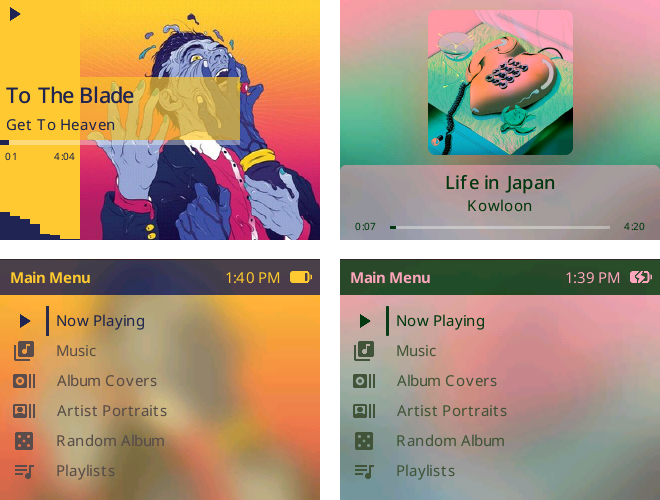
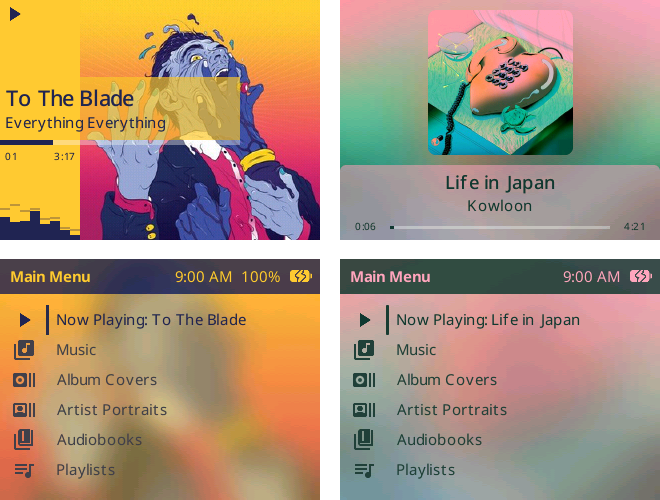
README: the bootloader, PC tools and artwork notes, and new screenshots
- Points to the optional PodBox bootloader release.
- First run moves below library setup and adds artcache_pb.exe beside
  database_pb.exe.
- Artwork may be progressive JPEG now; the borrowing caveat and the car
  artwork note are dropped.
- The feature-grid screenshots are retaken, with a new Settings one.

Claude-Session: https://claude.ai/code/session_01RvHmT58hzxfvQpvT89mNZ3

diff --git a/README.md b/README.md
@@ -117,18 +117,13 @@ the whole update.
 > [Rockbox installation guide](https://www.rockbox.org/manual.shtml) for your
 > model first. If you are already running Rockbox or RockPod, unzipping is all
 > you need.
-
-## First run
-
-When you first load PodBox it will be building your music and art database which will
-affect performance initially (particularly on the 5G).  You can check progress of the 
-background tasks by going to `System > Background Tasks`.
-
-The database can be built much faster from a Windows PC.  Once PodBox has started once, connect
-the iPod and run `database_pb.exe` from `.rockbox/tools/`.  It does what
-`Settings > Library > Maintenance > Update Database` does, keeping play counts, ratings and
-positions; `database_pb.exe --rebuild` does what `Rebuild Database` does.  When it finishes,
-eject the iPod; it restarts itself to load the new database.
+>
+> **Optional: the PodBox bootloader.** With it the player starts PodBox even
+> when the hold switch is on, and holding Menu as it starts gives you Apple's
+> firmware. Download `podbox-bootloader.zip` from the
+> [Bootloader release](https://github.com/anthonyfletcher/podbox/releases/tag/Bootloader),
+> unzip it on a Windows PC and follow its `README.txt`. It installs over the
+> Rockbox bootloader.
 
 # Setting up your music library
 
@@ -166,19 +161,15 @@ e.g. `Artist/folder.jpg`. Artist art only ever comes from image files. An artist
 no image of its own borrows one from the folder above it, so if your albums are grouped one
 level deeper, as in `Artist/Albums/Album One`, artist art can stay in `Artist/folder.jpg`; an
 image in the grouping folder (`Artist/Albums/folder.jpg`) takes precedence for the albums
-under it. The same borrowing means an image in a folder that holds your artists (e.g.
-`Music/folder.jpg` or a genre folder) becomes the picture of every artist without one, so
-keep them out of there. If that happens, delete the image and run
-`Settings > Library > Maintenance > Update Art Cache`.
+under it. 
 
 All artwork should be:
 
-- stored as a baseline / non-progressive JPEG file
+- stored as a JPEG file (baseline or progressive).
 - embedded as JPEG, if embedded at all. PNG art in tags is skipped, and the cache reads one
 track per album, so put the cover in every track.
 - stored at a "reasonable" resolution - the cache stores 300x300px copies, and anything much
-larger takes longer to process. A car is sent the cache's copy unless `Car Artwork` is set to
-send the original.
+larger takes longer to process.
 
 Artwork is processed quietly in the background while the database is idle, so browsing stays
 fast.  As such, it can take a while to see the art appear.  You can check the cache activity by
@@ -204,6 +195,22 @@ machine.
  each track and store the findings in an index. 
 - Turn on the playlist engine by going to `Settings > Library > Playlist Engine > Enabled`
 
+# First run
+
+When you first load PodBox it will be building your music and art database which will
+affect performance initially (particularly on the 5G).  You can check progress of the
+background tasks by going to `System > Background Tasks`.
+
+The database can be built much faster from a Windows PC.  Once PodBox has started once, connect
+the iPod and run `database_pb.exe` from `.rockbox/tools/`.  It does what
+`Settings > Library > Maintenance > Update Database` does, keeping play counts, ratings and
+positions; `database_pb.exe --rebuild` does what `Rebuild Database` does.  When it finishes,
+eject the iPod; it restarts itself to load the new database.
+
+The art cache can also be made on the PC: run `artcache_pb.exe` from `.rockbox/tools/`, after
+`database_pb.exe` if you have added music.  It does what `Update Art Cache` does, and
+`artcache_pb.exe --rebuild` what `Rebuild Art Cache` does.
+
 # Installing themes
 
 PodBox will support all Rockbox themes, however without modification they will **not** support dynamic
@@ -217,8 +224,7 @@ in all-themes.zip, from the [Themes release](https://github.com/anthonyfletcher/
 - [themify 2](themes/themify_2/README.md)
 - [obsede 2](themes/obsede_2/README.md)
 - [bony](themes/bony/README.md)
-- [iclassic square](themes/iclassic_square/README.md)
-- [iclassic square dark](themes/iclassic_square_dark/README.md)
+- [iclassic square](themes/iclassic_square/README.md) - classic, dark and light
 - [jive](themes/jive/README.md)
 
 **Make sure to update your themes whenever you update PodBox. Themes are rebuilt for each release, 
@@ -244,18 +250,20 @@ they can be installed in any order and on their own.
 - Album art displayed next to album rows
   - Theme dependent
   - See above for artwork setup
-  - Control visibility via `Settings > Appearance > Elements > Album Art Rows`
-- Artist profile displayed next to artist rows
+  - Control visibility via `Settings > Appearance > Interface Elements > Art Rows > Album Art Rows`
+- Artist portrait displayed next to artist rows
   - Theme dependent
   - See above for artwork setup
-  - Control visibility via `Settings > Appearance > Elements > Artist Art Rows`
-- Show the album release year after each album name
+  - Control visibility via `Settings > Appearance > Interface Elements > Art Rows > Artist Art Rows`
+- Show the album release year before or after each album name
   - `Settings > Library > Music > Show Year in Album Lists`, off by default
 - Control the sort order of the albums  chosen from name, year (oldest or newest first), 
   or artist then name or year
   - `Settings > Library > Music > Sort Albums By`
 - Sort artists and albums ignoring a leading "The", "A" or "An"
   - Off by default.  Turn it on in `Settings > Library > Music > Sort Ignoring The/A/An`
+- Sort artists by name or by most played
+  - `Settings > Library > Music > Sort Artists By`
 - Start playing a random album
   - `Music > Random Album`
 - Search with live results across track, album or artist names
@@ -268,6 +276,7 @@ they can be installed in any order and on their own.
   - Change via `Settings > Library > Music > Edit Music Menu`
 - Trim noise from track and album names (like featuring information)
   - Off by default.  Turn the feature on by going to `Settings > Library > Music > Trim Titles`
+  - Add your own patterns in `.rockbox/library/user/trim.txt`, which an update leaves alone
 - View listening progress against albums and artists
   - Hold `Select` on an Album or Artist and select `Listening Progress`
 - Play the Music Quiz
@@ -295,12 +304,14 @@ from the Music menu and carousels
   - Audiobooks should have a genre of "audiobook", "spoken word", "book", "podcast" or "podcasts".
 - Audiobooks automatically receive a "resume" function - you don't need to bookmark
 your position.
+- Book covers and author photos next to their rows
+  - Theme dependent
+  - `Settings > Appearance > Interface Elements > Art Rows > Audiobook Art Rows`/`Author Art Rows`, off by default
 - See which books you have finished, not started or are part-way through
   - Scroll up above the first book in `Audiobooks > Book` for `Finished`, `Not Started`
   and `In Progress`; a list with no books in it is not shown
   - Choosing a book plays it, from where you left off if you have started it
-  - Hold `Select` on a book, on a shelf or in any Audiobooks list, for Add to Queue, Add to Playlist, Show Track Info,
-  Listening Progress, Show in Files and Mark as..., which moves it to In Progress, Not Started or 
+  - Hold `Select` on a book and select Mark as... to move it to In Progress, Not Started or 
   Finished. The mark lasts until the book is next played.
 - Books held in a single file show their chapters.
   - Off by default.  Turn the feature on by going to `Settings > Playback > Chapter Marks`
@@ -309,19 +320,21 @@ into `.mp3` ones
   - Also available while playing - hold `Select` on the Now Playing screen and choose
 `Browse Chapters`
 
-## Album Covers/Artist Profiles
+## Album Covers/Artist Portraits
 
 - Simplified implementation which links to Music for tracks/albums
-- Significantly improved performance (particularly on iPod 5)
+- Significantly improved performance (particularly on iPod video)
 - Control whether opening an album lists the album tracks or starts playing the album
   - `Settings > Library > Carousel > On Album Select`
-- Display the covers/profiles in a flat top-down mode
-  - `Settings > Library > Carousel > View Mode`
+- Display the covers/portraits flat, face-on either side of the current one
+  - `Settings > Appearance > Carousel > View Mode`
+- Sort the covers/portraits independently of Music, or the same way
+  - `Settings > Library > Carousel > Sort Same as Music`, off by default
 - Give the carousel a fixed background colour that dynamic colours leave alone
-  - `Settings > Library > Carousel > Background > Custom`
+  - `Settings > Appearance > Carousel > Background > Custom`
 - Spin to a random album or artist
   - Hold `Play`
-  - `Settings > Library > Carousel > Random Spin Length` to control the speed
+  - `Settings > Library > Carousel > Random Spin Length` to control how far it spins
 
 ## What's playing
 
@@ -331,6 +344,7 @@ into `.mp3` ones
   - `Settings > Library > Viewers > Lyrics Viewer`
 - Show either album art or artist art in the now playing screen
   - Theme dependent (must currently show album art)
+  - `Settings > Appearance > Now Playing Screen > Now Playing Artwork`
   - In auto mode the art will be shown depending on how you arrived at playing the track. If
 you opened `Music > Artist > Album > Track` the artist art would show - if you opened `Music >
  Album > Track` the album art would show.
@@ -351,7 +365,7 @@ you opened `Music > Artist > Album > Track` the artist art would show - if you o
 - Put a playlist in an order where each track leads into the next
   - Hold `Select` in the playlist viewer and select `Order by Sound`
 - See what a track sounds like, in words -- its moods, energy, pace, tone, key and more
-  - Hold `Select` on the track, select `Track Info` and open the `Sound` row
+  - Hold `Select` on the track, select `Show Track Info` and open the `Sound` row
 - See what an album or folder sounds like as a whole
   - Hold `Select` on the album or folder and select `Album Sound`
 - See what the analysis found across your whole library, and how much of it is measured
@@ -395,9 +409,9 @@ song is by, the album it came from
 - Dynamic colouring of the UI based on the album/artist art including transformation of all theme 
 colours
   - Theme dependent
-  - `Settings > Appearance > Colours > Dynamic Colors`
+  - `Settings > Appearance > Interface Colours > Dynamic Colors`
 - Choose whether the album's lighter or darker colour becomes the background
-  - `Settings > Appearance > Colours > Dynamic Colors Background`
+  - `Settings > Appearance > Interface Colours > Dynamic Colors Background`
 - Control whether scrolling is enabled across the UI or whether long text is cut short with "..." 
 instead. 
   - `Settings > Appearance > Scrolling > Enabled`, on by default
@@ -407,7 +421,7 @@ themes your settings follow, and themes don't inherit settings they don't set
   - To reset to default
   - `Settings > Appearance > Forget My Changes`
 - Art filters available to modify art in the carousel
-  - `Settings > Library > Carousel > Artwork Filter`
+  - `Settings > Appearance > Carousel > Artwork Filter`
 
 ## Language
 
@@ -415,6 +429,8 @@ themes your settings follow, and themes don't inherit settings they don't set
   - See [`language-override-guide.md`](docs/podbox/language-override-guide.md)
 
 ## Settings
+
+<img src="docs/podbox/images/ss_grid_settings.png"/>
 
 - Settings reworked
   - See [`settings-guide.md`](docs/podbox/settings-guide.md)
@@ -427,6 +443,8 @@ themes your settings follow, and themes don't inherit settings they don't set
   - `Settings > Changed Settings`
 - View a description of each setting from the setting menu
   - Hold `Select` to open the context menu then select `Explain`
+- Shut down or reboot from the menu
+  - `Settings > System > Startup/Shutdown`
 
 ## Behind the scenes
 
@@ -435,11 +453,12 @@ themes your settings follow, and themes don't inherit settings they don't set
   - `Settings > Library > Art Cache` for settings
   - `Settings > Library > Maintenance > Update Art Cache`/`Rebuild Art Cache` for tasks
   - `System > Background Tasks` for monitoring
+- Your library data - database, play history and caches - now lives in `.rockbox/library/`
 - Information about albums, artists and play counts now centralised in a database summary index
-  - `Settings > Library > Maintenance > Update Index`/`Rebuild Index` for tasks
+  - `Settings > Library > Maintenance > Update Index` for tasks
   - `System > Background Tasks` for monitoring
 - Dialogs reworked to provide consistent and "themed" message, input, confirmation, search, colour, date/time and folder select boxes
-  - `Settings > Appearance > Colours` for settings
+  - `Settings > Appearance > Dialogs` for settings
 - Additional theme tags to provide richer graphics and support easier theme development
   - See [`custom-skin-tags.md`](docs/podbox/custom-skin-tags.md)
 
@@ -449,7 +468,7 @@ All connectivity described below works on both the iPod video and the iPod class
 earphone remote (see Headphones) - however testing has only been completed on a small number of
 accessories.  If you'd like to support testing, please follow [this guide](docs/podbox/connectivity-testing-guide.md).
 
-The USB and accessory settings below are under `Settings > System`, and most are shown only with
+The USB and accessory settings below are under `Settings > System`, and some are shown only with
 `Settings > Settings Mode` set to `Everything`.
 
 ### Sound card (New)
@@ -493,6 +512,12 @@ and play your library from its own screen and remote
 - `Settings > System > Accessories > Accessory Browsing` sets how many songs a list can hold -
   10,000 by default.
 
+Your iPod can mirror its screen on a TV - through a dock with a video output
+- `Settings > System > Accessories > TV Out > Turn On` - always off after a restart
+- `Size` - `1x` (sharp, in the middle of the TV) or `2x` (fills most of it)
+- `Standard` - PAL or NTSC, iPod Video only
+- On an iPod Video the iPod's own screen goes black while it's on
+
 ### Modern Cars (New/Experimental)
 
 <img src="docs/podbox/images/conn_car.svg" alt="The iPod plugged into a car's USB socket; the car's screen shows the track playing"/>
@@ -504,12 +529,12 @@ speaks iAP2, the protocol an iPhone uses, and the car plays it as a USB media so
 - Title, artist, album, cover art and a moving progress bar on the car's screen
 - Your whole library in the car's own browser - pick an artist, album, playlist or song there and the iPod
   plays it
-- `Settings > System > Accessories > iAP2 Accessories` - `Auto` by default. Auto recognises a car,
+- `Settings > System > Accessories > iPhone Accessories` - `Auto` by default. Auto recognises a car,
   and a computer still mounts the iPod as a disk, about a second later than it otherwise would.
-  Needs `Accessory Protocol` on
+  Shown only while `Accessory Protocol` is on
 - `Settings > System > Accessories > Car Artwork` specifies where the cover comes from.
-  `Prefer Cache` by default, which appears almost at once. The other choices send the original
-  image - sharper, but slower to appear and more work for a 5G. Only JPEGs under 512 KB are sent
+  `Prefer Cache` by default, which appears almost at once. `Prefer Embedded` and `Prefer Image File`
+  send the original image - sharper, but slower to appear and more work for a 5G. Only JPEGs under 512 KB are sent
   as they are
   
 ### Headphones (Improved)
@@ -518,6 +543,7 @@ speaks iAP2, the protocol an iPhone uses, and the car plays it as a USB media so
 
 You can control your iPod using the earphone remote (supported on the iPod classic
 120GB - Late 2008 and 160GB - Late 2009 thin versions only)
+- Works on all types of headphones - not just the Apple earpods.
 - Click for play/pause, two clicks for the next track, three for the previous
   one, and the volume buttons
 - Always on. The multi-click skips are `Settings > System > Accessories > Remote Track Skip`, on
@@ -571,7 +597,7 @@ Built on the work of:
 - Bony
   - Based on BONES created by: Chuck Lardo
   - License: CC BY-SA 4.0 (https://creativecommons.org/licenses/by-sa/4.0/deed.en)
-- iClassic Square and iClassic Square Dark
+- iClassic Square (and its Dark and Light versions)
   - Created by: Humberto Santana
   - License: CC BY-SA 3.0 (https://creativecommons.org/licenses/by-sa/3.0/deed.en)
 - Jive
